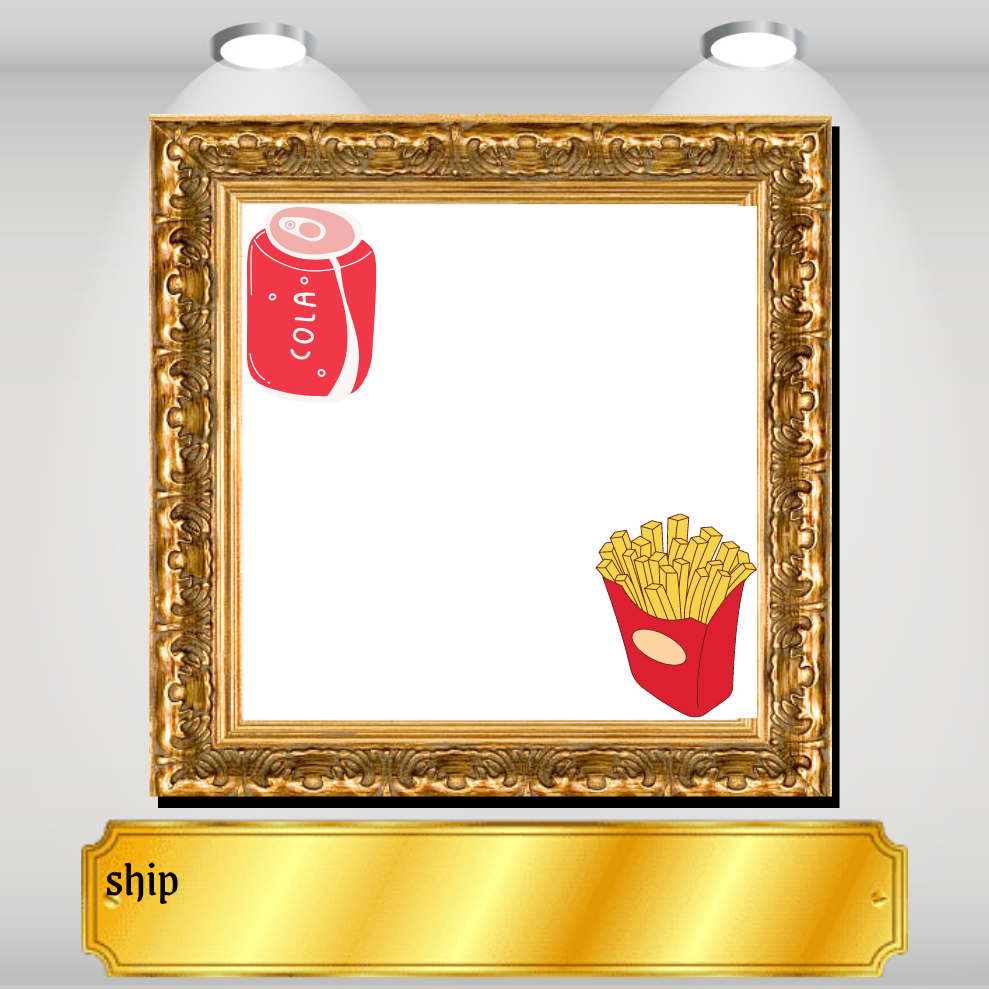
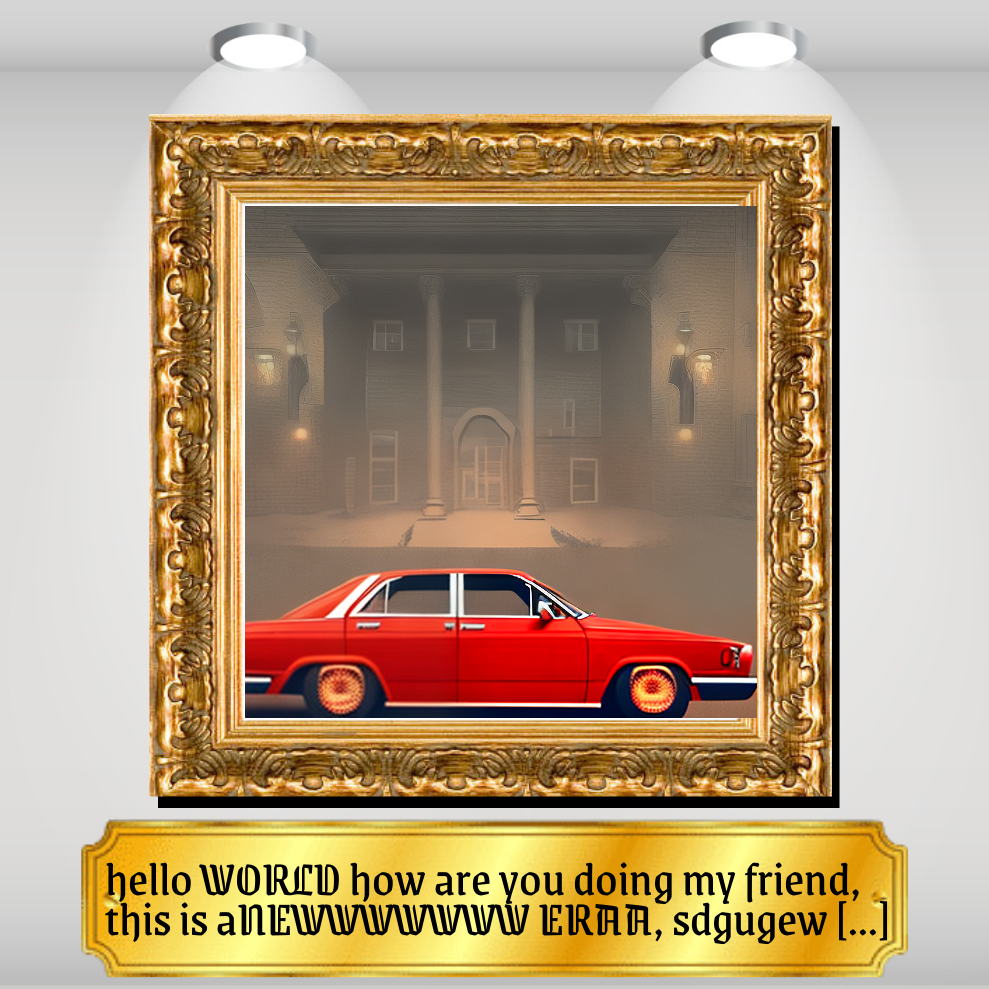
a

Changed region(s): [[0.2427, 0.182, 0.7887, 0.728], [0.091, 0.8493, 0.91, 0.9707]]

diff --git a/GameController/Image.py b/GameController/Image.py
@@ -8,6 +8,8 @@ from Player.PlayersManager import PlayersManager
 from BotController import BotInitiator
 import re
 import urllib.request
+import requests
+from io import BytesIO
 import PIL.Image as MyImage
 from PIL import ImageFont, ImageDraw
 import textwrap
@@ -26,6 +28,7 @@ class Image:
     requestID = 0 # 0 for image is made, else the number is the requestID
     battle_voters = [] # store the voters for the battle
     winstreak = [] #Winstreak for the gaunlet stored as a list of defeated images
+    framedImage = ""
 
     def __init__(self, author, prompt, imageURL, processingTime = 0, requestID = 0):
         self.author = author
@@ -39,6 +42,7 @@ class Image:
         self.choosenCaption = ()
         self.battle_voters = []
         self.winstreak = []
+        self.framedImage = ""
 
     def getProcessing(self):
         return self.processingTime
@@ -169,22 +173,20 @@ class Image:
     
     async def showBestPrompt(self):
 
+        # add original prompt to dictionary of image lies
+        self.imageLies[self.author] = (self.prompt, self.correct_players)
         # obtain text
         sortedLies = sorted(self.imageLies.items(), key=lambda x:len(x[1][1]), reverse=True)
         mostPopularPrompt = sortedLies[0][1][0]
 
         print(mostPopularPrompt)
 
-        # obtain photo frame
-        urllib.request.urlretrieve("https://i.imgur.com/UN0tpJR.png", f"{IMAGE_ASSETS_PATH}bgFrame.png")
+        urllib.request.urlretrieve("https://i.imgur.com/UN0tpJR.png", "bgFrame.png")
         # urllib.request.urlretrieve("https://i.imgur.com/EdSQzFR.png", "sample.png")
-        # remove "\" from self.imageURL"
-        self.newImageURL = re.sub(r"\\", "", self.imageURL)
-        print("new image url: " + self.newImageURL)
-        urllib.request.urlretrieve(self.newImageURL, "sample.png")
-        sample = MyImage.open("sample.png")
-        # urllib.request.urlretrieve(self.imageURL, "sample.png")
-        background = MyImage.open(f"{IMAGE_ASSETS_PATH}bgFrame.png")
+        response = requests.get(self.imageURL)    
+        background = MyImage.open("bgFrame.png")
+        response.raise_for_status()
+        sample = MyImage.open(BytesIO(response.content))
         # sample = MyImage.open("sample.png")
 
         background.paste(sample, (245, 206))
@@ -211,7 +213,12 @@ class Image:
 
         # Save the final image
         background.save("finalImg.png")
+
+        self.framedImage = MyImage.open("finalImg.png")
         
         print('got to end')
         # with open('finalImg.png', 'rb') as img:
         #     await context.bot.send_photo(chat_id=update.message.from_user.id, photo=img)
+
+    async def getFramedImage(self):
+        return self.framedImage

diff --git a/BotController/BotCommands.py b/BotController/BotCommands.py
@@ -8,8 +8,10 @@ import random
 import time
 import re
 import urllib.request
+import requests
 from PIL import Image, ImageFont, ImageDraw
 import textwrap
+from io import BytesIO
 
 from telegram import InlineKeyboardMarkup, InlineKeyboardButton, InputMediaPhoto, Update
 import telegram
@@ -107,13 +109,18 @@ async def start(update: Update, context: ContextTypes.DEFAULT_TYPE):
     return BotInitiator.FRESH
 
 async def help(update: Update, context: ContextTypes.DEFAULT_TYPE):
+    IMAGE_ASSETS_PATH = "Assets\\Images\\"
+    FONT_ASSETS_PATH = "Assets\\Font\\"
+
     await DialogueReader.sendMessageByID(context.bot, update.message.from_user.id, "HelpGuide", parse_mode=DialogueReader.MARKDOWN)
 
-    urllib.request.urlretrieve("https://i.imgur.com/rxyQjQe.png", "bgFrame.png")
+    urllib.request.urlretrieve("https://i.imgur.com/UN0tpJR.png", "bgFrame.png")
     # urllib.request.urlretrieve("https://i.imgur.com/EdSQzFR.png", "sample.png")
-    urllib.request.urlretrieve("https://cdn.stablediffusionapi.com/generations/0-7847a1f0-894d-4f18-84e4-81dfc92e6c78.png", "sample.png")
+    response = requests.get('https://cdn.stablediffusionapi.com/generations/0-7847a1f0-894d-4f18-84e4-81dfc92e6c78.png')    
     background = Image.open("bgFrame.png")
-    sample = Image.open("sample.png")
+    response.raise_for_status()
+    sample = Image.open(BytesIO(response.content))
+    # sample = Image.open("sample.png")
 
     background.paste(sample, (245, 206))
 
@@ -126,8 +133,7 @@ async def help(update: Update, context: ContextTypes.DEFAULT_TYPE):
     #hardcode height
     y_text =  40
 
-    font = ImageFont.truetype("C:\\Users\\User\\Downloads\\TelePibbage\\Orbital-TelePibbage\\GrenzeGotisch-Regular.ttf", 50)
-
+    font = ImageFont.truetype(f"{FONT_ASSETS_PATH}GrenzeGotisch-Regular.ttf", 50)
     # Create a text image with the text placed within the box
     text_draw = ImageDraw.Draw(background)
 
@@ -324,7 +330,7 @@ async def handle_vote_callback(update: Update, context: ContextTypes.DEFAULT_TYP
         # prepare image frame
         await votingImage.showBestPrompt()
         # broadcast image frame
-        await room.broadcastFramedImage(context.bot)
+        await room.broadcastFramedImage(context.bot, votingImage)
         
         await asyncio.sleep(2)
         hasNext = await room.broadcast_voting_image(context.bot)

diff --git a/Room/Room.py b/Room/Room.py
@@ -11,6 +11,7 @@ from Chat.DialogueReader import DialogueReader
 from GameController import ArcadeGen, Battle, Caption, CaptionSelection, Prompting, Lying, Voting, Reveal
 from GameController.Image import Image
 from telegram import InlineKeyboardMarkup, InlineKeyboardButton, Update
+from io import BytesIO
 
 from Player.Player import Player
 from Player.PlayersManager import PlayersManager
@@ -448,7 +449,18 @@ class Room:
             ])
             await player.sendMessage(bot, "Welcome3", reply_markup=PlayAgainKeyboard)
  
-    async def broadcastFramedImage(self, bot):
-        with open('finalImg.png', 'rb') as img:
-            for eachPlayer in self._players:
-                await bot.send_photo(chat_id=eachPlayer.getChatId(), photo=img)                        
+    # async def broadcastFramedImage(self, bot):
+    #     with open('finalImg.png', 'rb') as img:
+    #         for eachPlayer in self._players:
+    #             await bot.send_photo(chat_id=eachPlayer.getChatId(), photo=img)                        
+
+    async def broadcastFramedImage(self, bot, finalImage):
+        #NOTE: finalImage is a GameController.Image object
+        bio = BytesIO() # got to import BytesIO from io
+        framedFinalImage = await finalImage.getFramedImage()
+        framedFinalImage.convert('RGB')
+        framedFinalImage.save(bio, 'JPEG')
+                              
+        bio.seek(0)
+        for eachPlayer in self._players:
+                await eachPlayer.sendImageURL(chat_id=eachPlayer.getChatId(), photo=bio)
